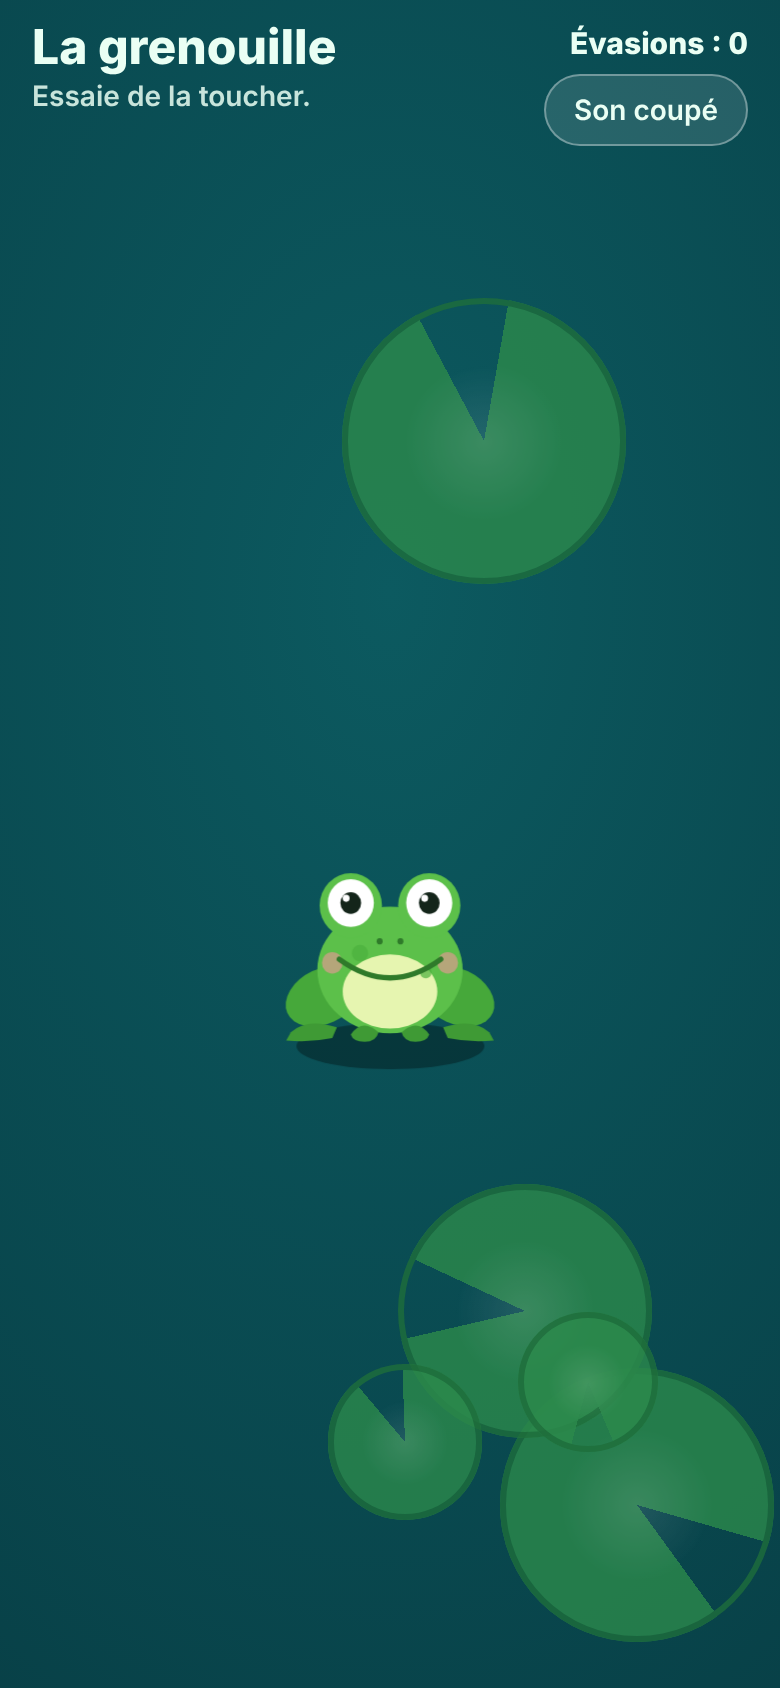
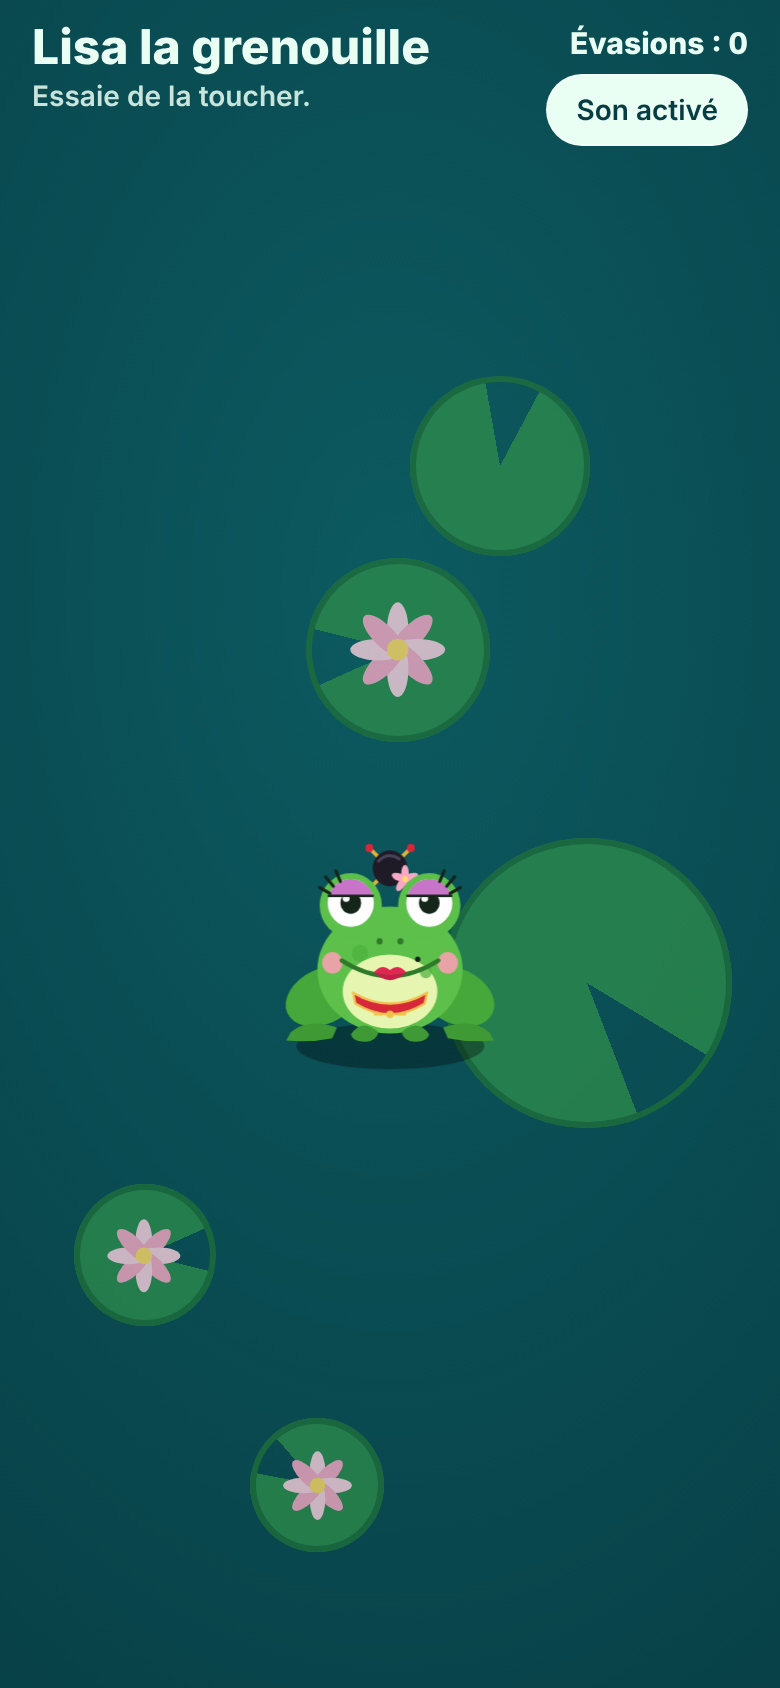
Lisa : coassement à chaque saut, nouveau style, son fiabilisé sur iPhone
Claude-Session: https://claude.ai/code/session_01RM9m1ojt2zTJkwKUcEPKUa

diff --git a/demo/index.html b/demo/index.html
@@ -4,7 +4,7 @@
 <meta charset="utf-8">
 <meta name="viewport" content="width=device-width, initial-scale=1, viewport-fit=cover">
 <meta name="apple-mobile-web-app-capable" content="yes">
-<title>La grenouille</title>
+<title>Lisa la grenouille</title>
 <link rel="preconnect" href="https://fonts.googleapis.com">
 <link rel="preconnect" href="https://fonts.gstatic.com" crossorigin>
 <link href="https://fonts.googleapis.com/css2?family=Baloo+2:wght@600;800&display=swap" rel="stylesheet">
@@ -21,7 +21,7 @@ html, body { height: 100%; margin: 0; overflow: hidden; }
 body { background: radial-gradient(120% 90% at 50% 35%, var(--eau) 0%, var(--eau-fond) 100%); color: var(--texte); font-family: var(--f); -webkit-user-select: none; user-select: none; }
 #mare { position: fixed; inset: 0; overflow: hidden; touch-action: none; cursor: crosshair; }
 .pad { position: absolute; border-radius: 50%; background: conic-gradient(from var(--a), var(--nenuphar) 0 322deg, transparent 322deg); box-shadow: inset 0 0 0 3px var(--nenuphar-bord); opacity: .8; }
-.pad::after { content: ''; position: absolute; inset: 22%; border-radius: 50%; background: radial-gradient(circle, rgba(255, 255, 255, .13), transparent 70%); }
+.pad svg { position: absolute; left: 22%; top: 22%; width: 56%; height: 56%; overflow: visible; }
 header { position: absolute; left: 0; right: 0; top: 0; padding: calc(12px + env(safe-area-inset-top)) 16px 0; display: flex; justify-content: space-between; align-items: flex-start; gap: 12px; pointer-events: none; z-index: 5; }
 h1 { margin: 0; font-size: clamp(24px, 6vw, 38px); line-height: 1; font-weight: 800; text-wrap: balance; }
 header p { margin: 4px 0 0; font-size: clamp(14px, 3.6vw, 18px); font-weight: 600; opacity: .85; }
@@ -38,8 +38,10 @@ header p { margin: 4px 0 0; font-size: clamp(14px, 3.6vw, 18px); font-weight: 60
 .en-l-air .assis { display: none; }
 .paupiere { transform: scaleY(0); transform-box: fill-box; transform-origin: 50% 0; transition: transform .07s linear; }
 .clin .paupiere { transform: scaleY(1); }
-.langue { display: none; }
-.nargue .langue { display: block; }
+.eventail { display: none; }
+.nargue .eventail { display: block; }
+.nargue .paupiere.d { transform: scaleY(1); }
+.en-l-air .eventail { display: none; }
 .peur .pupille { r: 5; }
 #bulle { position: absolute; left: 0; top: 0; background: var(--bulle); color: var(--encre); font-weight: 800; font-size: clamp(16px, 4.4vw, 22px); line-height: 1; padding: 9px 14px 7px; border-radius: 16px; white-space: nowrap; opacity: 0; transition: opacity .15s; z-index: 4; pointer-events: none; }
 #bulle.vue { opacity: 1; }
@@ -52,11 +54,11 @@ header p { margin: 4px 0 0; font-size: clamp(14px, 3.6vw, 18px); font-weight: 60
 <body>
 <div id="mare">
   <header>
-    <div><h1>La grenouille</h1><p>Essaie de la toucher.</p></div>
-    <div class="droite"><div id="compteur" aria-live="polite">Évasions : 0</div><button id="son" type="button" aria-pressed="false">Son coupé</button></div>
+    <div><h1>Lisa la grenouille</h1><p>Essaie de la toucher.</p></div>
+    <div class="droite"><div id="compteur" aria-live="polite">Évasions : 0</div><button id="son" type="button" aria-pressed="true">Son activé</button></div>
   </header>
   <div id="ombre"></div>
-  <div id="grenouille" aria-label="Une grenouille qui se promène" role="img">
+  <div id="grenouille" aria-label="Lisa, une grenouille élégante qui se promène" role="img">
     <svg viewBox="0 0 200 170" aria-hidden="true">
       <!-- pattes arrière, au repos -->
       <g class="assis">
@@ -84,16 +86,40 @@ header p { margin: 4px 0 0; font-size: clamp(14px, 3.6vw, 18px); font-weight: 60
       <g class="saut" fill="none" stroke="#46a83a" stroke-width="12" stroke-linecap="round">
         <path d="M72 138 L52 112"/><path d="M128 138 L148 112"/>
       </g>
+      <!-- chignon à baguettes et fleur de lotus -->
+      <g>
+        <path d="M82 4 L118 38 M118 4 L82 38" stroke="#e0b23c" stroke-width="3.2" stroke-linecap="round"/>
+        <circle cx="82" cy="4" r="3.4" fill="#d62839"/><circle cx="118" cy="4" r="3.4" fill="#d62839"/>
+        <circle cx="100" cy="21" r="15" fill="#1f1b26"/>
+        <path d="M90 15 q8 -8 18 -2" fill="none" stroke="#4a4358" stroke-width="2.5" stroke-linecap="round"/>
+        <g transform="translate(113 30)"><ellipse rx="3.2" ry="7" cy="-5" fill="#f7a8c4"/><ellipse rx="3.2" ry="7" cy="-5" fill="#f7a8c4" transform="rotate(72)"/><ellipse rx="3.2" ry="7" cy="-5" fill="#f7a8c4" transform="rotate(144)"/><ellipse rx="3.2" ry="7" cy="-5" fill="#f7a8c4" transform="rotate(216)"/><ellipse rx="3.2" ry="7" cy="-5" fill="#f7a8c4" transform="rotate(288)"/><circle r="2.6" fill="#ffd966"/></g>
+      </g>
       <!-- yeux -->
       <circle cx="66" cy="52" r="27" fill="#5cc04a"/><circle cx="134" cy="52" r="27" fill="#5cc04a"/>
       <circle cx="66" cy="50" r="20" fill="#fff"/><circle cx="134" cy="50" r="20" fill="#fff"/>
       <g id="pupilles"><circle class="pupille" cx="66" cy="50" r="9" fill="#14251a"/><circle class="pupille" cx="134" cy="50" r="9" fill="#14251a"/><circle cx="62" cy="46" r="3" fill="#fff"/><circle cx="130" cy="46" r="3" fill="#fff"/></g>
-      <circle class="paupiere" cx="66" cy="50" r="21" fill="#4bb03d"/><circle class="paupiere" cx="134" cy="50" r="21" fill="#4bb03d"/>
+      <path d="M46.9 44 A20 20 0 0 1 85.1 44 Z" fill="#c774c9"/><path d="M114.9 44 A20 20 0 0 1 153.1 44 Z" fill="#c774c9"/>
+      <g fill="none" stroke="#14251a" stroke-width="2.6" stroke-linecap="round">
+        <path d="M48 42 L39 37 M51 36 L44 28 M57 32 L53 23"/><path d="M152 42 L161 37 M149 36 L156 28 M143 32 L147 23"/>
+        <path d="M46.9 44 L85.1 44 M114.9 44 L153.1 44" stroke-width="2"/>
+      </g>
+      <circle class="paupiere g" cx="66" cy="50" r="21" fill="#c774c9"/><circle class="paupiere d" cx="134" cy="50" r="21" fill="#c774c9"/>
       <!-- museau -->
       <circle cx="91" cy="82" r="2.6" fill="#2f7a2a"/><circle cx="109" cy="82" r="2.6" fill="#2f7a2a"/>
-      <circle cx="50" cy="100" r="9" fill="#ff8fa3" opacity=".55"/><circle cx="150" cy="100" r="9" fill="#ff8fa3" opacity=".55"/>
-      <path class="langue" d="M92 110 q8 26 18 0z" fill="#ff5d7a" stroke="#d93d5c" stroke-width="2"/>
-      <path d="M56 97 Q100 128 144 97" fill="none" stroke="#2f7a2a" stroke-width="4.5" stroke-linecap="round"/>
+      <circle cx="50" cy="100" r="9" fill="#ff9db5" opacity=".85"/><circle cx="150" cy="100" r="9" fill="#ff9db5" opacity=".85"/>
+      <path d="M58 98 Q100 124 142 98" fill="none" stroke="#2f7a2a" stroke-width="3.5" stroke-linecap="round"/>
+      <path d="M86 108 q7 -8 14 -2 q7 -6 14 2 q-14 5 -28 0z" fill="#e02752"/><path d="M86 108 q14 13 28 0 q-14 5 -28 0z" fill="#c81d49"/>
+      <circle cx="124" cy="97" r="2.3" fill="#14251a"/>
+      <!-- col rouge à liseré doré -->
+      <path d="M68 125 Q100 143 132 125 L130 134 Q100 152 70 134 Z" fill="#d62839" stroke="#f2c14e" stroke-width="2" stroke-linejoin="round"/>
+      <circle cx="100" cy="143" r="3.2" fill="#f2c14e"/><path d="M93 143 h-6 M107 143 h6" stroke="#f2c14e" stroke-width="2.2" stroke-linecap="round"/>
+      <!-- éventail, sorti pour narguer -->
+      <g class="eventail" transform="translate(100 126)">
+        <path d="M0 0 L-39 -20 A44 44 0 0 1 39 -20 Z" fill="#fbe3ea" stroke="#d62839" stroke-width="2.4" stroke-linejoin="round"/>
+        <path d="M0 0 L-24 -37 M0 0 L-8 -43 M0 0 L8 -43 M0 0 L24 -37" stroke="#d62839" stroke-width="1.6"/>
+        <path d="M-33 -29 A44 44 0 0 1 33 -29" fill="none" stroke="#f2c14e" stroke-width="3"/>
+        <circle r="3.2" fill="#f2c14e"/>
+      </g>
     </svg>
   </div>
   <div id="bulle"></div>
@@ -107,7 +133,7 @@ header p { margin: 4px 0 0; font-size: clamp(14px, 3.6vw, 18px); font-weight: 60
   var W = 0, H = 0, T = 120, TH = 102;            // taille de la grenouille
   var pos = { x: 0, y: 0 }, saut = null, sens = 1, doigt = null, evasions = 0;
   var prochain = 0, atterri = -1e9, finBulle = 0, finNargue = 0, prochainClin = 0, finClin = 0;
-  var MOTS = ['Raté !', 'Trop lent !', 'Coâ ?!', 'Même pas en rêve', 'Hop là !', 'Pas touche !', 'Bien essayé', 'Encore raté', 'Coâ coâ coâ', 'Je glisse !', 'Tu chauffes… non'];
+  var MOTS = ['Raté, chéri !', 'Trop lent, mon chou', 'Pas touche !', 'Dans tes rêves', 'Coâ… quelle audace', 'On regarde, on ne touche pas', 'Encore raté', 'Bien tenté', 'Lisa est trop rapide', 'Hop là !', 'Tu chauffes… non'];
   function alea(a, b) { return a + Math.random() * (b - a); }
   function bornes() { var m = T * 0.6; return { g: m, d: W - m, h: TH + 96, b: H - 22 }; }
   function serrer(p) { var b = bornes(); return { x: Math.min(b.d, Math.max(b.g, p.x)), y: Math.min(b.b, Math.max(b.h, p.y)) }; }
@@ -125,6 +151,11 @@ header p { margin: 4px 0 0; font-size: clamp(14px, 3.6vw, 18px); font-weight: 60
       d.className = 'pad'; d.style.width = d.style.height = s + 'px';
       d.style.left = alea(-20, W - s + 20) + 'px'; d.style.top = alea(70, H - s + 20) + 'px';
       d.style.setProperty('--a', Math.round(alea(0, 360)) + 'deg');
+      if (i % 2 === 0) {
+        var pet = '';
+        for (var k = 0; k < 8; k++) pet += '<ellipse rx="5" ry="13" cy="-9" fill="' + (k % 2 ? '#f7a8c4' : '#fbd0de') + '" transform="rotate(' + k * 45 + ')"/>';
+        d.innerHTML = '<svg viewBox="-24 -24 48 48" aria-hidden="true">' + pet + '<circle r="5" fill="#ffd966"/></svg>';
+      }
       mare.insertBefore(d, ombre);
     }
   }
@@ -138,6 +169,7 @@ header p { margin: 4px 0 0; font-size: clamp(14px, 3.6vw, 18px); font-weight: 60
     if (Math.abs(cible.x - pos.x) > 4) sens = cible.x >= pos.x ? 1 : -1;
     saut = { de: { x: pos.x, y: pos.y }, a: cible, haut: haut, duree: duree, t0: performance.now(), genre: genre };
     g.classList.add('en-l-air'); g.classList.remove('nargue');
+    if (!coasser(genre === 'fuite') && genre === 'fuite') muette = performance.now();
   }
   function fuir(px, py) {
     var now = performance.now();
@@ -156,7 +188,7 @@ header p { margin: 4px 0 0; font-size: clamp(14px, 3.6vw, 18px); font-weight: 60
     bondir(pris, haut, calme ? 260 : 520, 'fuite');
     evasions++; compteur.textContent = 'Évasions : ' + evasions;
     bulle.textContent = MOTS[Math.floor(Math.random() * MOTS.length)]; bulle.classList.add('vue'); finBulle = now + 1100;
-    g.classList.add('peur'); coasser();
+    g.classList.add('peur');
   }
   function onde(x, y, taille) {
     var o = document.createElement('div'); o.className = 'onde';
@@ -209,22 +241,44 @@ header p { margin: 4px 0 0; font-size: clamp(14px, 3.6vw, 18px); font-weight: 60
     if (finClin && now > finClin) { g.classList.remove('clin'); finClin = 0; }
     requestAnimationFrame(image);
   }
-  // son facultatif : un petit coassement synthétique
-  var audio = null, sonActif = false;
-  function coasser() {
-    if (!sonActif) return;
+  // Lisa coasse à chaque saut : un « coâ » doux pour la balade, un « coâ-coâ » sonore pour la fuite.
+  // Les navigateurs n'autorisent le son qu'après un premier toucher.
+  var audio = null, sonActif = true, muette = -1e9; // muette : fuite partie avant que le son soit débloqué
+  function syllabe(t, f, vol, long) {
+    var o = audio.createOscillator(), v = audio.createGain(), lfo = audio.createOscillator(), lg = audio.createGain(), filtre = audio.createBiquadFilter();
+    o.type = 'sawtooth'; o.frequency.setValueAtTime(f, t); o.frequency.exponentialRampToValueAtTime(f * 0.45, t + long);
+    filtre.type = 'bandpass'; filtre.frequency.value = 900; filtre.Q.value = 1.1;
+    lfo.frequency.value = 38; lg.gain.value = vol * 0.6; lfo.connect(lg); lg.connect(v.gain);
+    v.gain.setValueAtTime(0.0001, t); v.gain.exponentialRampToValueAtTime(vol, t + 0.03); v.gain.exponentialRampToValueAtTime(0.0001, t + long);
+    o.connect(filtre); filtre.connect(v); v.connect(audio.destination);
+    o.start(t); lfo.start(t); o.stop(t + long + 0.02); lfo.stop(t + long + 0.02);
+  }
+  function coasser(fort) {
+    if (!sonActif || !audio || audio.state !== 'running') return false;
     try {
-      if (!audio) audio = new (window.AudioContext || window.webkitAudioContext)();
-      var t = audio.currentTime, o = audio.createOscillator(), v = audio.createGain(), lfo = audio.createOscillator(), lg = audio.createGain();
-      o.type = 'sawtooth'; o.frequency.setValueAtTime(alea(210, 260), t); o.frequency.exponentialRampToValueAtTime(95, t + 0.24);
-      lfo.frequency.value = 34; lg.gain.value = 0.5; lfo.connect(lg); lg.connect(v.gain);
-      v.gain.setValueAtTime(0.0001, t); v.gain.exponentialRampToValueAtTime(0.22, t + 0.03); v.gain.exponentialRampToValueAtTime(0.0001, t + 0.3);
-      o.connect(v); v.connect(audio.destination); o.start(t); lfo.start(t); o.stop(t + 0.32); lfo.stop(t + 0.32);
+      var t = audio.currentTime + 0.01;
+      if (fort) { syllabe(t, alea(250, 290), 0.5, 0.2); syllabe(t + 0.21, alea(210, 240), 0.5, 0.26); }
+      else syllabe(t, alea(190, 230), 0.22, 0.18);
+      return true;
+    } catch (e) { return false; }
+  }
+  function debloquerSon() {
+    try {
+      if (!sonActif) return;
+      if (navigator.audioSession) { try { navigator.audioSession.type = 'playback'; } catch (e) { } } // joue aussi en mode silencieux
+      if (!audio) {
+        audio = new (window.AudioContext || window.webkitAudioContext)();
+        var vide = audio.createBufferSource(); vide.buffer = audio.createBuffer(1, 1, 22050); vide.connect(audio.destination); vide.start(0);
+      }
+      var rattraper = function () { if (performance.now() - muette < 700) { muette = -1e9; coasser(true); } };
+      if (audio.state !== 'running') audio.resume().then(rattraper).catch(function () { }); else rattraper();
     } catch (e) { }
   }
+  ['pointerdown', 'pointerup', 'touchend', 'click', 'keydown'].forEach(function (n) { window.addEventListener(n, debloquerSon, { passive: true }); });
   btnSon.addEventListener('click', function () {
     sonActif = !sonActif; btnSon.setAttribute('aria-pressed', String(sonActif)); btnSon.textContent = sonActif ? 'Son activé' : 'Son coupé';
-    if (sonActif) coasser();
+    if (sonActif) { debloquerSon(); coasser(true); }
+    else if (audio && audio.state === 'running') { audio.suspend().catch(function () { }); }
   });
   function approche(ev, rayon) {
     var r = mare.getBoundingClientRect(), px = ev.clientX - r.left, py = ev.clientY - r.top, c = centre();

diff --git a/README.md b/README.md
@@ -4,7 +4,7 @@ Dépôt de publication vers www.le-top.ch.
 
 **Règle : chaque dossier à la racine de ce dépôt est publié dans `/web/<dossier>/`, soit `www.le-top.ch/<dossier>/`.**
 
-- `demo/` → www.le-top.ch/demo/ : une grenouille qui se promène et s'enfuit à grands bonds quand on tente de la toucher.
+- `demo/` → www.le-top.ch/demo/ : Lisa la grenouille, qui se promène, coasse à chaque saut et s'enfuit à grands bonds quand on tente de la toucher.
 - `time/` → www.le-top.ch/time/ : application de présence et de suivi du temps (GIOT Immobilier SA / OptimalGo SA), version web, données de démonstration fictives.
 - Les fichiers posés à la racine du dépôt (comme ce README) ne sont pas publiés ; la racine `/web` du site n'est jamais touchée.
 - Noms de dossier acceptés : lettres, chiffres, point, tiret, tiret bas. Les dossiers commençant par un point sont ignorés.
